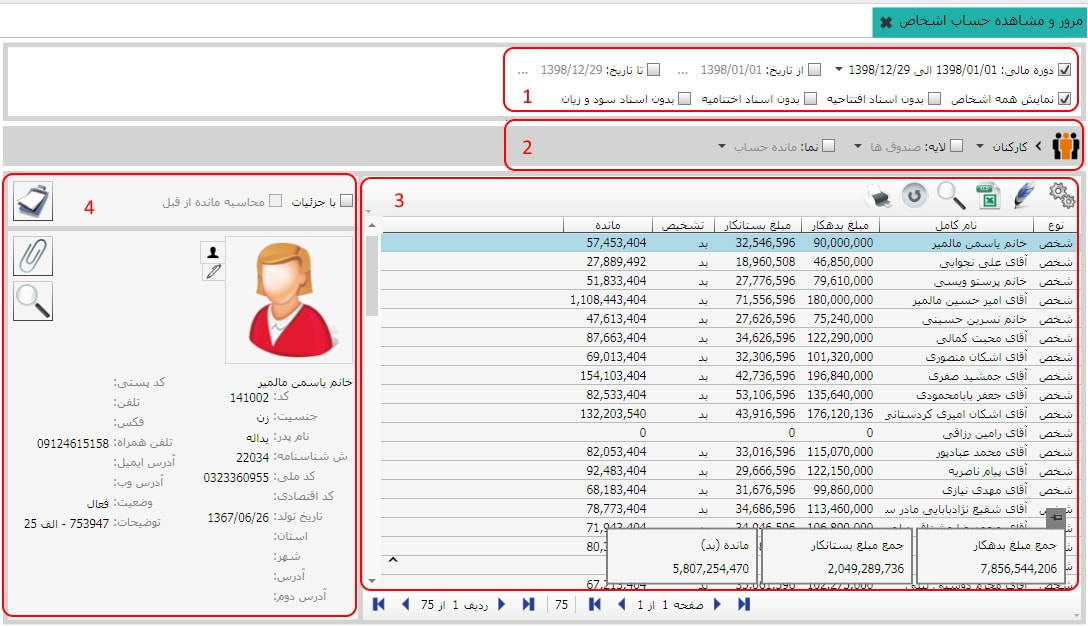
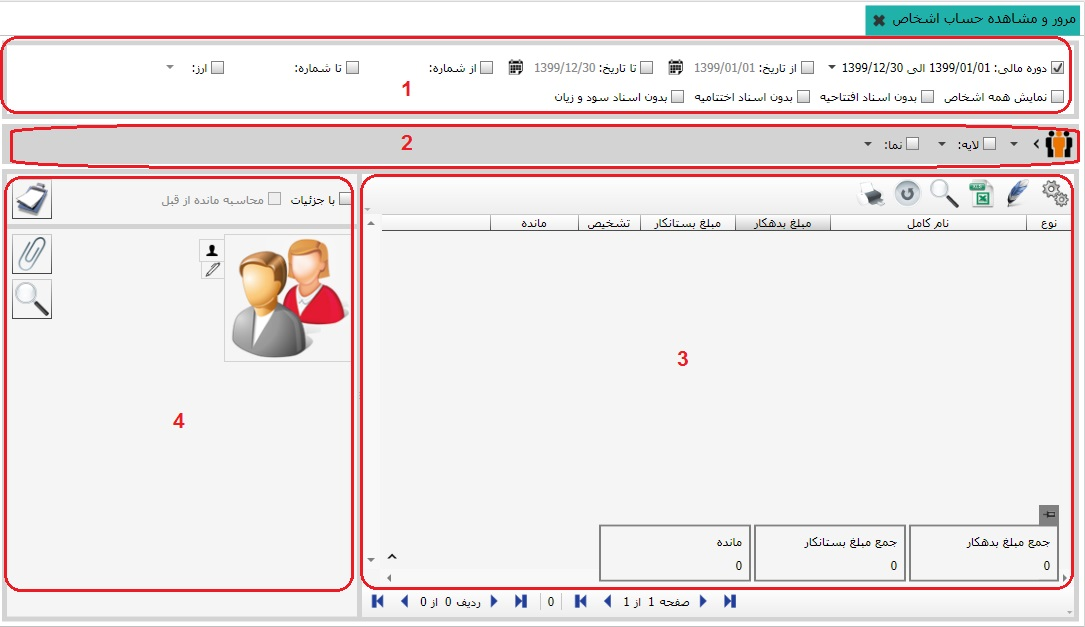
تهیه و چاپ حساب اشخاص

Changed region(s): [[0.0, 0.0, 1.0, 1.0], [0.1521, 0.6667, 0.1825, 0.697], [0.1217, 0.6061, 0.1521, 0.6364]]

diff --git a/Help/fa-IR/_03_مالی و حسابداری/_13_مرور و مشاهده حساب اشخاص/Index.html b/Help/fa-IR/_03_مالی و حسابداری/_13_مرور و مشاهده حساب اشخاص/Index.html
@@ -36,6 +36,12 @@
 		در صورت استفاده از این گزینه سیستم تنها گردش های موجود در بازه ی زمانی
 		تعیین شده را نمایش می دهد.
 	</p>
+	<img class="picintext" src="g11.jpg" />
+	<p>
+		با استفاده از این گزینه می توانید شماره ی اسناد را فیلتر کنید و فقط
+		اسنادی که شماره ی آنها فیلتر شده را ببینید.
+	</p>
+
 	<img class="picintext" src="g6.jpg" />
 	<p>
 		چنانچه گزینه « نمایش همه اشخاص» را انتخاب کنید اشخاص یا گروه هایی که
